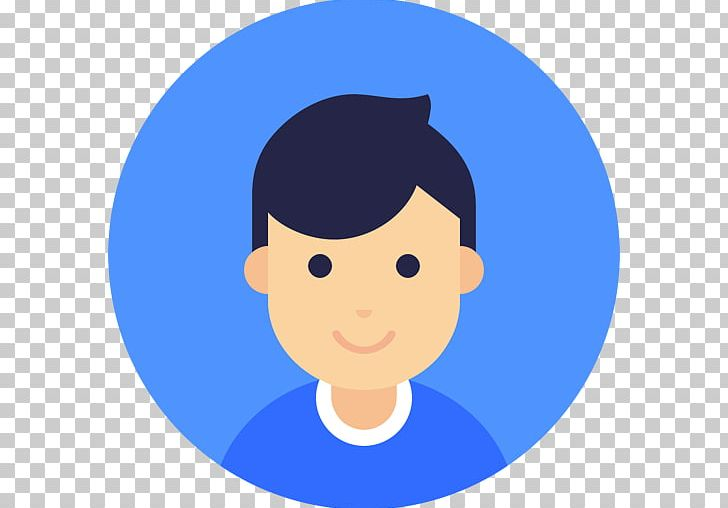
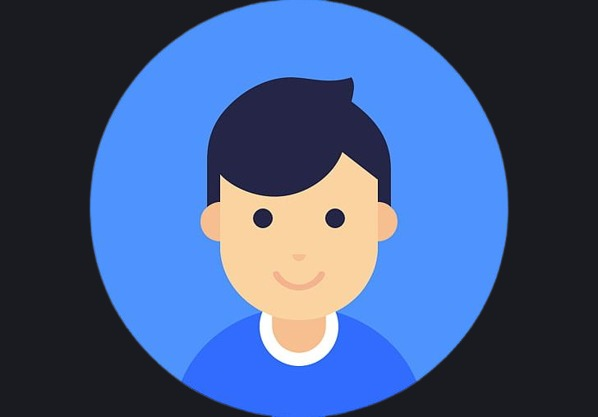
completed

diff --git a/src/components/footer.js b/src/components/footer.js
@@ -1,12 +1,61 @@
 import React from "react";
+import "../styles/Footer/footer.css"
 
-export default function Footer(){
-    return(
+export default function Footer() {
+    return (
         <footer>
-            <a href=""></a>
-            <a href=""></a>
-            <a href=""></a>
-            <a href=""></a>
+            {/* facebook logo */}
+            <a href="https://www.facebook.com/sibindra.timalsina.7">
+                <svg
+                    width="25"
+                    height="25"
+                    viewBox="0 0 25 25"
+                    fill="none"
+                    xmlns="http://www.w3.org/2000/svg"
+                    className="svg"
+                >
+                    <path
+                        d="M22.3214 0H2.67857C1.96817 0 1.28686 0.282206 0.784535 0.784536C0.282206 1.28687 0 1.96817 0 2.67857L0 22.3214C0 23.0318 0.282206 23.7131 0.784535 24.2155C1.28686 24.7178 1.96817 25 2.67857 25H10.3376V16.5006H6.82199V12.5H10.3376V9.45089C10.3376 5.9827 12.4023 4.06696 15.5647 4.06696C17.0792 4.06696 18.6629 4.33705 18.6629 4.33705V7.74107H16.918C15.1987 7.74107 14.6624 8.80804 14.6624 9.90234V12.5H18.5006L17.8867 16.5006H14.6624V25H22.3214C23.0318 25 23.7131 24.7178 24.2155 24.2155C24.7178 23.7131 25 23.0318 25 22.3214V2.67857C25 1.96817 24.7178 1.28687 24.2155 0.784536C23.7131 0.282206 23.0318 0 22.3214 0Z"
+                        fill="#918E9B"
+                    />
+                </svg>
+            </a>
+
+            {/* instagram */}
+            <a href="https://www.instagram.com/timalsina_sibindra/">
+                <svg
+                    width="25"
+                    height="25"
+                    viewBox="0 0 25 25"
+                    fill="none"
+                    xmlns="http://www.w3.org/2000/svg"
+                    className="svg"
+
+                >
+                    <path
+                        d="M12.5 9.52344C11.9113 9.52366 11.336 9.69842 10.8466 10.0256C10.3573 10.3528 9.97593 10.8178 9.75081 11.3617C9.52569 11.9056 9.46691 12.5041 9.58188 13.0814C9.69686 13.6587 9.98044 14.189 10.3968 14.6051C10.8131 15.0213 11.3435 15.3047 11.9208 15.4195C12.4982 15.5342 13.0966 15.4752 13.6405 15.2499C14.1843 15.0246 14.6491 14.643 14.9761 14.1536C15.3031 13.6641 15.4777 13.0887 15.4777 12.5C15.4771 11.7106 15.1631 10.9536 14.6048 10.3955C14.0465 9.83739 13.2894 9.52373 12.5 9.52344ZM19.4593 7.23549C19.3077 6.85148 19.0789 6.50269 18.787 6.21077C18.4951 5.91886 18.1463 5.69004 17.7623 5.5385C16.5904 5.07589 13.8002 5.17969 12.5 5.17969C11.1998 5.17969 8.41239 5.07199 7.23717 5.5385C6.85315 5.69004 6.50436 5.91886 6.21245 6.21077C5.92053 6.50269 5.69171 6.85148 5.54018 7.23549C5.07812 8.40737 5.18136 11.2003 5.18136 12.4994C5.18136 13.7986 5.07813 16.5882 5.54241 17.764C5.69394 18.148 5.92276 18.4968 6.21468 18.7887C6.5066 19.0806 6.85538 19.3094 7.2394 19.4609C8.41127 19.9235 11.2015 19.8198 12.5022 19.8198C13.803 19.8198 16.5893 19.9275 17.7645 19.4609C18.1485 19.3094 18.4973 19.0806 18.7892 18.7887C19.0811 18.4968 19.31 18.148 19.4615 17.764C19.9275 16.5921 19.8203 13.7991 19.8203 12.5C19.8203 11.2009 19.9275 8.41183 19.4615 7.23605L19.4593 7.23549ZM12.5 17.0759C11.595 17.0759 10.7103 16.8075 9.95777 16.3047C9.20527 15.8019 8.61877 15.0873 8.27243 14.2511C7.92609 13.415 7.83547 12.4949 8.01203 11.6073C8.18859 10.7197 8.62441 9.90431 9.26436 9.26436C9.90431 8.62441 10.7197 8.18859 11.6073 8.01203C12.4949 7.83547 13.415 7.92609 14.2511 8.27243C15.0873 8.61877 15.8019 9.20527 16.3047 9.95777C16.8075 10.7103 17.0759 11.595 17.0759 12.5C17.0766 13.1011 16.9588 13.6965 16.7291 14.252C16.4994 14.8075 16.1623 15.3122 15.7373 15.7373C15.3122 16.1623 14.8075 16.4994 14.252 16.7291C13.6965 16.9588 13.1011 17.0766 12.5 17.0759ZM17.2645 8.80022C17.0532 8.80033 16.8467 8.73779 16.671 8.62049C16.4952 8.5032 16.3583 8.33642 16.2773 8.14127C16.1964 7.94611 16.1752 7.73134 16.2163 7.52411C16.2575 7.31689 16.3592 7.12652 16.5085 6.97709C16.6579 6.82766 16.8482 6.72588 17.0554 6.68463C17.2626 6.64337 17.4774 6.66449 17.6726 6.74531C17.8678 6.82614 18.0346 6.96304 18.152 7.13869C18.2694 7.31435 18.332 7.52087 18.332 7.73214C18.3326 7.87244 18.3055 8.01147 18.2522 8.14127C18.199 8.27106 18.1206 8.38906 18.0216 8.4885C17.9227 8.58794 17.805 8.66686 17.6755 8.72074C17.5459 8.77461 17.407 8.80238 17.2667 8.80246L17.2645 8.80022ZM22.3214 0H2.67857C1.96817 0 1.28686 0.282206 0.784535 0.784536C0.282206 1.28687 0 1.96817 0 2.67857L0 22.3214C0 23.0318 0.282206 23.7131 0.784535 24.2155C1.28686 24.7178 1.96817 25 2.67857 25H22.3214C23.0318 25 23.7131 24.7178 24.2155 24.2155C24.7178 23.7131 25 23.0318 25 22.3214V2.67857C25 1.96817 24.7178 1.28687 24.2155 0.784536C23.7131 0.282206 23.0318 0 22.3214 0ZM21.3661 16.183C21.2941 17.6133 20.9676 18.8806 19.9235 19.9219C18.8795 20.9632 17.6133 21.2963 16.1847 21.3644C14.7109 21.4475 10.2924 21.4475 8.81864 21.3644C7.38839 21.2924 6.12556 20.9654 5.0798 19.9219C4.03404 18.8783 3.70536 17.6105 3.63728 16.183C3.55413 14.7087 3.55413 10.2896 3.63728 8.81697C3.70926 7.38672 4.03181 6.11942 5.0798 5.07813C6.12779 4.03683 7.39397 3.70759 8.81864 3.63951C10.2924 3.55636 14.7109 3.55636 16.1847 3.63951C17.615 3.7115 18.8817 4.0385 19.9235 5.08203C20.9654 6.12556 21.298 7.39342 21.3661 8.82366C21.4492 10.2924 21.4492 14.7076 21.3661 16.183Z"
+                        fill="#918E9B"
+                    />
+                </svg>
+            </a>
+
+            {/* github icon */}
+            <a href="https://github.com/Sibindra">
+                <svg
+                    width="26"
+                    height="26"
+                    viewBox="0 0 26 26"
+                    fill="none"
+                    xmlns="http://www.w3.org/2000/svg"
+                    className="svg"
+
+                >
+                    <path
+                        d="M22.8224 0.500061H3.17955C1.70075 0.500061 0.500977 1.69984 0.500977 3.17863V22.8215C0.500977 24.3003 1.70075 25.5001 3.17955 25.5001H22.8224C24.3012 25.5001 25.501 24.3003 25.501 22.8215V3.17863C25.501 1.69984 24.3012 0.500061 22.8224 0.500061ZM15.9753 21.9119C15.5066 21.9956 15.3336 21.7054 15.3336 21.4655C15.3336 21.1641 15.3447 19.6239 15.3447 18.3795C15.3447 17.509 15.0545 16.9565 14.7141 16.6664C16.7789 16.4376 18.9552 16.153 18.9552 12.5871C18.9552 11.5715 18.5925 11.0637 18.001 10.4108C18.0958 10.1708 18.4139 9.1831 17.9061 7.89962C17.1304 7.65966 15.3559 8.8985 15.3559 8.8985C14.6193 8.69203 13.8213 8.586 13.0345 8.586C12.2476 8.586 11.4496 8.69203 10.713 8.8985C10.713 8.8985 8.93848 7.65966 8.16281 7.89962C7.65499 9.17752 7.96749 10.1652 8.06794 10.4108C7.47642 11.0637 7.19741 11.5715 7.19741 12.5871C7.19741 16.1362 9.27888 16.4376 11.3436 16.6664C11.0758 16.9063 10.8358 17.3193 10.7521 17.9108C10.222 18.1507 8.86593 18.5637 8.05678 17.1351C7.54897 16.2534 6.63379 16.1809 6.63379 16.1809C5.72977 16.1697 6.57241 16.7501 6.57241 16.7501C7.17508 17.0291 7.59919 18.1005 7.59919 18.1005C8.14049 19.7579 10.7298 19.1998 10.7298 19.1998C10.7298 19.9755 10.7409 21.2367 10.7409 21.4655C10.7409 21.7054 10.5735 21.9956 10.0992 21.9119C6.41616 20.6786 3.83803 17.1742 3.83803 13.0782C3.83803 7.95542 7.75544 4.06591 12.8782 4.06591C18.001 4.06591 22.1528 7.95542 22.1528 13.0782C22.1583 17.1742 19.6583 20.6842 15.9753 21.9119ZM10.501 18.5023C10.3949 18.5246 10.2945 18.48 10.2833 18.4074C10.2722 18.3237 10.3447 18.2512 10.4508 18.2289C10.5568 18.2177 10.6572 18.2623 10.6684 18.3349C10.6851 18.4074 10.6126 18.48 10.501 18.5023ZM9.97084 18.4521C9.97084 18.5246 9.88714 18.586 9.77553 18.586C9.65276 18.5972 9.56906 18.5358 9.56906 18.4521C9.56906 18.3795 9.65276 18.3181 9.76437 18.3181C9.8704 18.307 9.97084 18.3684 9.97084 18.4521ZM9.20633 18.3907C9.18401 18.4632 9.0724 18.4967 8.97754 18.4632C8.87151 18.4409 8.79897 18.3572 8.82129 18.2847C8.84361 18.2121 8.95522 18.1786 9.05008 18.201C9.16169 18.2344 9.23424 18.3181 9.20633 18.3907ZM8.51995 18.0893C8.46973 18.1507 8.3637 18.1396 8.27999 18.0559C8.19629 17.9833 8.17397 17.8773 8.22977 17.8271C8.27999 17.7657 8.38602 17.7768 8.46973 17.8606C8.54227 17.9331 8.57017 18.0447 8.51995 18.0893ZM8.01214 17.5815C7.96192 17.615 7.86705 17.5815 7.80566 17.4978C7.74428 17.4141 7.74428 17.3193 7.80566 17.2802C7.86705 17.23 7.96192 17.269 8.01214 17.3527C8.07352 17.4364 8.07352 17.5369 8.01214 17.5815ZM7.64942 17.0402C7.59919 17.0905 7.51549 17.0626 7.4541 17.0068C7.39272 16.9342 7.38156 16.8505 7.43178 16.8114C7.482 16.7612 7.56571 16.7891 7.62709 16.8449C7.68848 16.9175 7.69964 17.0012 7.64942 17.0402ZM7.27553 16.6273C7.25321 16.6775 7.18066 16.6887 7.11928 16.6496C7.04674 16.6161 7.01325 16.5547 7.03557 16.5045C7.0579 16.471 7.11928 16.4543 7.19183 16.4822C7.26437 16.5213 7.29785 16.5827 7.27553 16.6273Z"
+                        fill="#918E9B"
+                    />
+                </svg>
+            </a>
         </footer>
-    )
+    );
 }

diff --git a/public/index.html b/public/index.html
@@ -24,7 +24,7 @@
       work correctly both with client-side routing and a non-root public URL.
       Learn how to configure a non-root public URL by running `npm run build`.
     -->
-    <title>React App</title>
+    <title>Digital Card</title>
   </head>
   <body>
     <noscript>You need to enable JavaScript to run this app.</noscript>

diff --git a/src/styles/index.css b/src/styles/index.css
@@ -9,14 +9,13 @@
 }
 
 body{
-    background-color: #23252c;
+    background-color: #1a1b21;
     display: flex;
     justify-content: center;
     align-items: center;
 }
 
 #container{
-    margin: 1%;
-    border: 1px solid white;
-    height: 98%;
+    /* border: 1px solid white; */
+    height: 100vh;
 }

diff --git a/src/styles/Footer/footer.css b/src/styles/Footer/footer.css
@@ -1,0 +1,12 @@
+footer{
+    padding:10px;
+    padding-bottom: 0px;
+    display: flex;
+    justify-content: center;
+    background-color: #23252c;
+}
+
+.svg{
+    margin-right: 50px;
+    margin-left: 50px;
+}

diff --git a/src/styles/Header/header.css b/src/styles/Header/header.css
@@ -1,8 +1,10 @@
 #logo{
-    max-width: 100%;  
     max-height: 100%; 
+    
 }
 
 header{
     height: 40%;
+    display: flex;
+    justify-content: center;
 }

diff --git a/src/styles/Article/intrests.css b/src/styles/Article/intrests.css
@@ -1,5 +1,5 @@
 #intrests{
-    /* border: 1px solid white; */
     margin: 4px;
-    padding: 30px;
+    margin-bottom: 0px;
+    padding: 60px;
 }

diff --git a/src/styles/Article/about.css b/src/styles/Article/about.css
@@ -1,4 +1,4 @@
 #about{
     margin: 4px;
-    padding: 30px;
+    padding: 60px;
 }

diff --git a/README.md b/README.md
@@ -1,3 +1,6 @@
+# The app looks like 
+![alt text](screenshot.jpg)
+
 # Getting Started with Create React App
 
 This project was bootstrapped with [Create React App](https://github.com/facebook/create-react-app).
